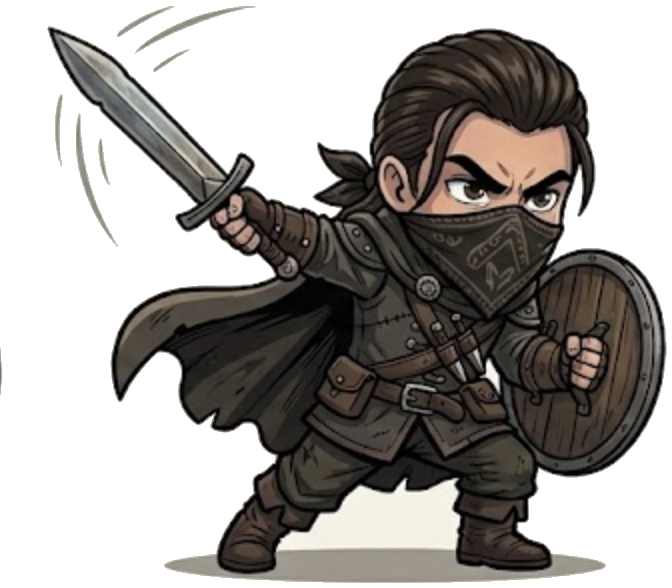
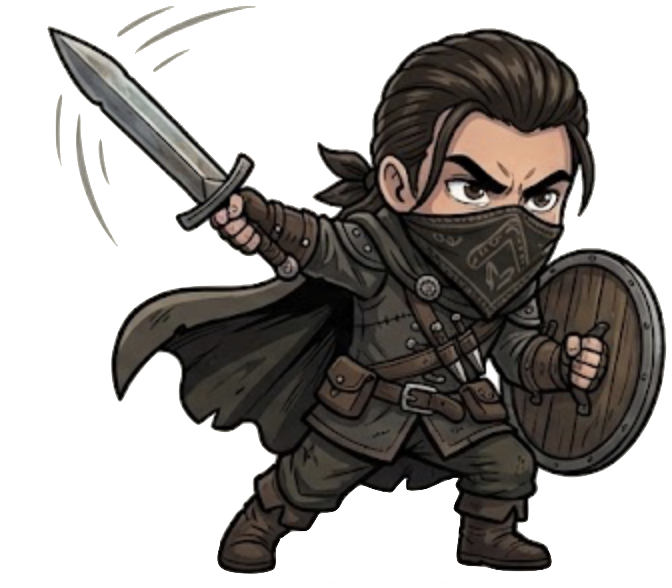
Add stamina system, fix desktop spacing, refresh sprite crops
- Add a stamina meter that gates attacking: each swing costs 45/100
  stamina, regenerating at 25/sec. Spamming ATTACK now runs you out
  after ~2 swings, forcing pauses where an unblocked enemy hit really
  hurts — defending is no longer optional against tougher enemies.
  The ATTACK button itself fills/empties as a gauge and shows "TIRED"
  when exhausted.
- Constrain #app to a centered 520px column with a dark backdrop.
  On wide desktop viewports the arena was stretching full width,
  leaving fighters too far apart to visually reach each other even
  though hits still registered — this fixes the whiff while keeping
  mobile (the primary target) pixel-identical.
- Give the knight a dedicated defend pose (assets/knight/defend.png)
  instead of just a CSS transform on the idle sprite.
- Update bandit/orc pose art with the tighter, cleaner crops.

Changed region(s): [[0.25, 0.7959, 0.9062, 1.0]]

diff --git a/index.html b/index.html
@@ -8,12 +8,12 @@
 <style>
 :root{--ink:#2a2522;--paper:#fff6df;--red:#b94339;--gold:#e2a62b;--green:#668b52;--sky:#b8dcea}
 *{box-sizing:border-box;-webkit-tap-highlight-color:transparent;-webkit-user-select:none;user-select:none;-webkit-touch-callout:none}
-html,body{margin:0;width:100%;height:100%;overflow:hidden;font-family:Georgia,serif;color:var(--ink);background:var(--sky)}
+html,body{margin:0;width:100%;height:100%;overflow:hidden;font-family:Georgia,serif;color:var(--ink);background:#1b1f22}
 body{touch-action:manipulation}
 button{font:700 18px Georgia,serif;color:var(--ink);background:var(--paper);border:3px solid var(--ink);border-radius:16px;box-shadow:0 4px 0 var(--ink);padding:13px 16px}
 button:active{transform:translateY(3px);box-shadow:0 1px 0 var(--ink)}
 button:disabled{opacity:.5}
-#app{width:100%;height:100%;display:flex;flex-direction:column}
+#app{width:100%;height:100%;max-width:520px;margin:0 auto;display:flex;flex-direction:column;background:var(--sky);box-shadow:0 0 40px rgba(0,0,0,.45)}
 .top{height:64px;flex:none;background:rgba(255,246,223,.97);border-bottom:4px solid var(--ink);display:flex;align-items:center;justify-content:space-between;padding:0 12px;z-index:20}
 .title{font-size:19px;font-weight:900;white-space:nowrap}.stats{display:flex;gap:5px;font:700 12px Arial}.pill{border:2px solid var(--ink);border-radius:20px;padding:5px 7px;background:#fffaf0}
 #screen{flex:1;min-height:0;position:relative}
@@ -50,7 +50,8 @@ h1,h2,h3{margin:0 0 8px}.muted{opacity:.7}
 .telegraph{position:absolute;left:50%;top:48px;transform:translateX(-50%);background:#fff6df;border:3px solid var(--ink);border-radius:15px;padding:7px 12px;font-weight:900;z-index:4;white-space:nowrap}
 .flash{animation:flash .18s 2}@keyframes flash{50%{filter:brightness(2) drop-shadow(0 6px 0 rgba(42,37,34,.25))}}
 .controls{display:grid;grid-template-columns:1fr 1fr;gap:10px;margin-top:10px}
-.control{height:82px;touch-action:none}.defend{background:#b7d3df}.attack{background:#e6ad32}
+.control{height:82px;touch-action:none}.defend{background:#b7d3df}
+.attack{--stam:100%;background:linear-gradient(to right,#e6ad32 0%,#e6ad32 var(--stam),#8a6b1f var(--stam),#8a6b1f 100%);transition:background .15s}
 .combat-log{margin-top:9px;padding:9px;background:#fff6df;border:3px solid var(--ink);border-radius:13px;font:700 14px Arial;min-height:38px}
 .loot{display:grid;grid-template-columns:1fr 1fr;gap:10px}.item{border:3px solid var(--ink);border-radius:14px;background:#fff6df;padding:12px}.item .emoji{font-size:40px;text-align:center}.item p{font:14px Arial;min-height:35px}.item button{width:100%;font-size:15px}
 .chest{text-align:center}.chest-icon{font-size:110px;line-height:1;margin:10px}
@@ -85,7 +86,7 @@ h1,h2,h3{margin:0 0 8px}.muted{opacity:.7}
     <button class="back" onclick="go('home')">← Castle</button>
     <h2>⚔ Sword Fight</h2>
   </div>
-  <div class="card" id="tutorialCard"><div class="muted">Hold DEFEND to raise your shield. Swipe anywhere in the arena or press ATTACK to strike.</div></div>
+  <div class="card" id="tutorialCard"><div class="muted">Hold DEFEND to raise your shield. Swipe anywhere in the arena or press ATTACK to strike — but attacking costs stamina, so pace yourself and defend while it recovers.</div></div>
   <div class="arena" id="arena">
     <div class="hp player"><i id="php"></i><span>You</span></div>
     <div class="hp enemy"><i id="ehp"></i><span id="enemyName">Opponent</span></div>
@@ -129,6 +130,8 @@ const S={
  chest:localStorage.getItem('kk_chest')||''
 };
 let hp=100, ehp=100, defending=false, locked=false, timer=null, startX=0,startY=0;
+const STAMINA_MAX=100, STAMINA_COST=45, STAMINA_REGEN=25;
+let stamina=STAMINA_MAX, staminaTimer=null;
 
 const ENEMY_TYPES=[
  {name:'Bandit',hue:0,idle:'assets/bandit/idle.png',attack:'assets/bandit/attack.png',dmgMin:10,dmgMax:16,delayMin:1100,delayMax:2600,reactMs:750,minLevel:1},
@@ -146,8 +149,18 @@ function save(){
 }
 function xp(n){S.xp+=n;while(S.xp>=100){S.xp-=100;S.level++;S.gold+=50}save()}
 function go(id){document.querySelectorAll('.page').forEach(x=>x.classList.remove('active'));document.getElementById(id).classList.add('active');if(id==='combat')reset()}
+function updateStamina(){
+ const btn=document.querySelector('#attack');
+ btn.style.setProperty('--stam',Math.round(stamina)+'%');
+ const canAttack=stamina>=STAMINA_COST&&!locked;
+ btn.disabled=!canAttack;
+ btn.textContent=canAttack?'⚔ ATTACK':'⚔ TIRED';
+}
 function reset(){
  hp=100;ehp=100;locked=false;defending=false;clearTimeout(timer);
+ stamina=STAMINA_MAX;clearInterval(staminaTimer);
+ staminaTimer=setInterval(()=>{if(!locked){stamina=Math.min(STAMINA_MAX,stamina+STAMINA_REGEN*0.1);updateStamina()}},100);
+ updateStamina();
  const tut=document.querySelector('#tutorialCard');
  if(localStorage.getItem('kk_tutorial')){tut.style.display='none'}else{tut.style.display='';localStorage.setItem('kk_tutorial','1')}
  document.querySelector('#php').style.width='100%';document.querySelector('#ehp').style.width='100%';
@@ -183,7 +196,9 @@ function enemyAttack(){
  },currentEnemy.reactMs)
 }
 function attack(){
- if(locked)return;const p=document.querySelector('#player'),e=document.querySelector('#enemy');
+ if(locked||stamina<STAMINA_COST)return;
+ stamina-=STAMINA_COST;updateStamina();
+ const p=document.querySelector('#player'),e=document.querySelector('#enemy');
  p.src='assets/knight/attack.png';p.classList.add('attackpose');
  setTimeout(()=>{p.src='assets/knight/idle-front.png';p.className='fighter player'},360);
  let d=S.sword==='iron'?20+Math.floor(Math.random()*8):12+Math.floor(Math.random()*6);
@@ -192,7 +207,8 @@ function attack(){
  flash(e);if(ehp<=0)finish(true)
 }
 function finish(win){
- locked=true;clearTimeout(timer);
+ locked=true;clearTimeout(timer);clearInterval(staminaTimer);
+ document.querySelector('#attack').disabled=true;
  if(win){let g=35+Math.floor(Math.random()*31);S.gold+=g;xp(30);document.querySelector('#telegraph').textContent='🏆 VICTORY!';document.querySelector('#log').textContent='Defeated the '+currentEnemy.name+'! +'+g+' gold and +30 XP.'}
  else{document.querySelector('#telegraph').textContent='💀 DEFEAT';document.querySelector('#log').textContent='You were defeated. Try defending more often.'}
  save();
@@ -200,8 +216,8 @@ function finish(win){
 function flash(el){el.classList.add('flash');setTimeout(()=>el.classList.remove('flash'),400)}
 
 const db=document.querySelector('#defend');
-db.addEventListener('pointerdown',e=>{e.preventDefault();defending=true;db.textContent='🛡 DEFENDING';document.querySelector('#player').classList.add('defendpose')});
-['pointerup','pointercancel','pointerleave'].forEach(ev=>db.addEventListener(ev,e=>{defending=false;db.textContent='🛡 HOLD TO DEFEND';document.querySelector('#player').classList.remove('defendpose')}));
+db.addEventListener('pointerdown',e=>{e.preventDefault();defending=true;db.textContent='🛡 DEFENDING';const p=document.querySelector('#player');p.src='assets/knight/defend.png';p.classList.add('defendpose')});
+['pointerup','pointercancel','pointerleave'].forEach(ev=>db.addEventListener(ev,e=>{defending=false;db.textContent='🛡 HOLD TO DEFEND';const p=document.querySelector('#player');p.src='assets/knight/idle-front.png';p.classList.remove('defendpose')}));
 document.querySelector('#attack').addEventListener('pointerdown',e=>{e.preventDefault();attack()});
 const arena=document.querySelector('#arena');
 arena.addEventListener('pointerdown',e=>{startX=e.clientX;startY=e.clientY;arena.setPointerCapture?.(e.pointerId)});
